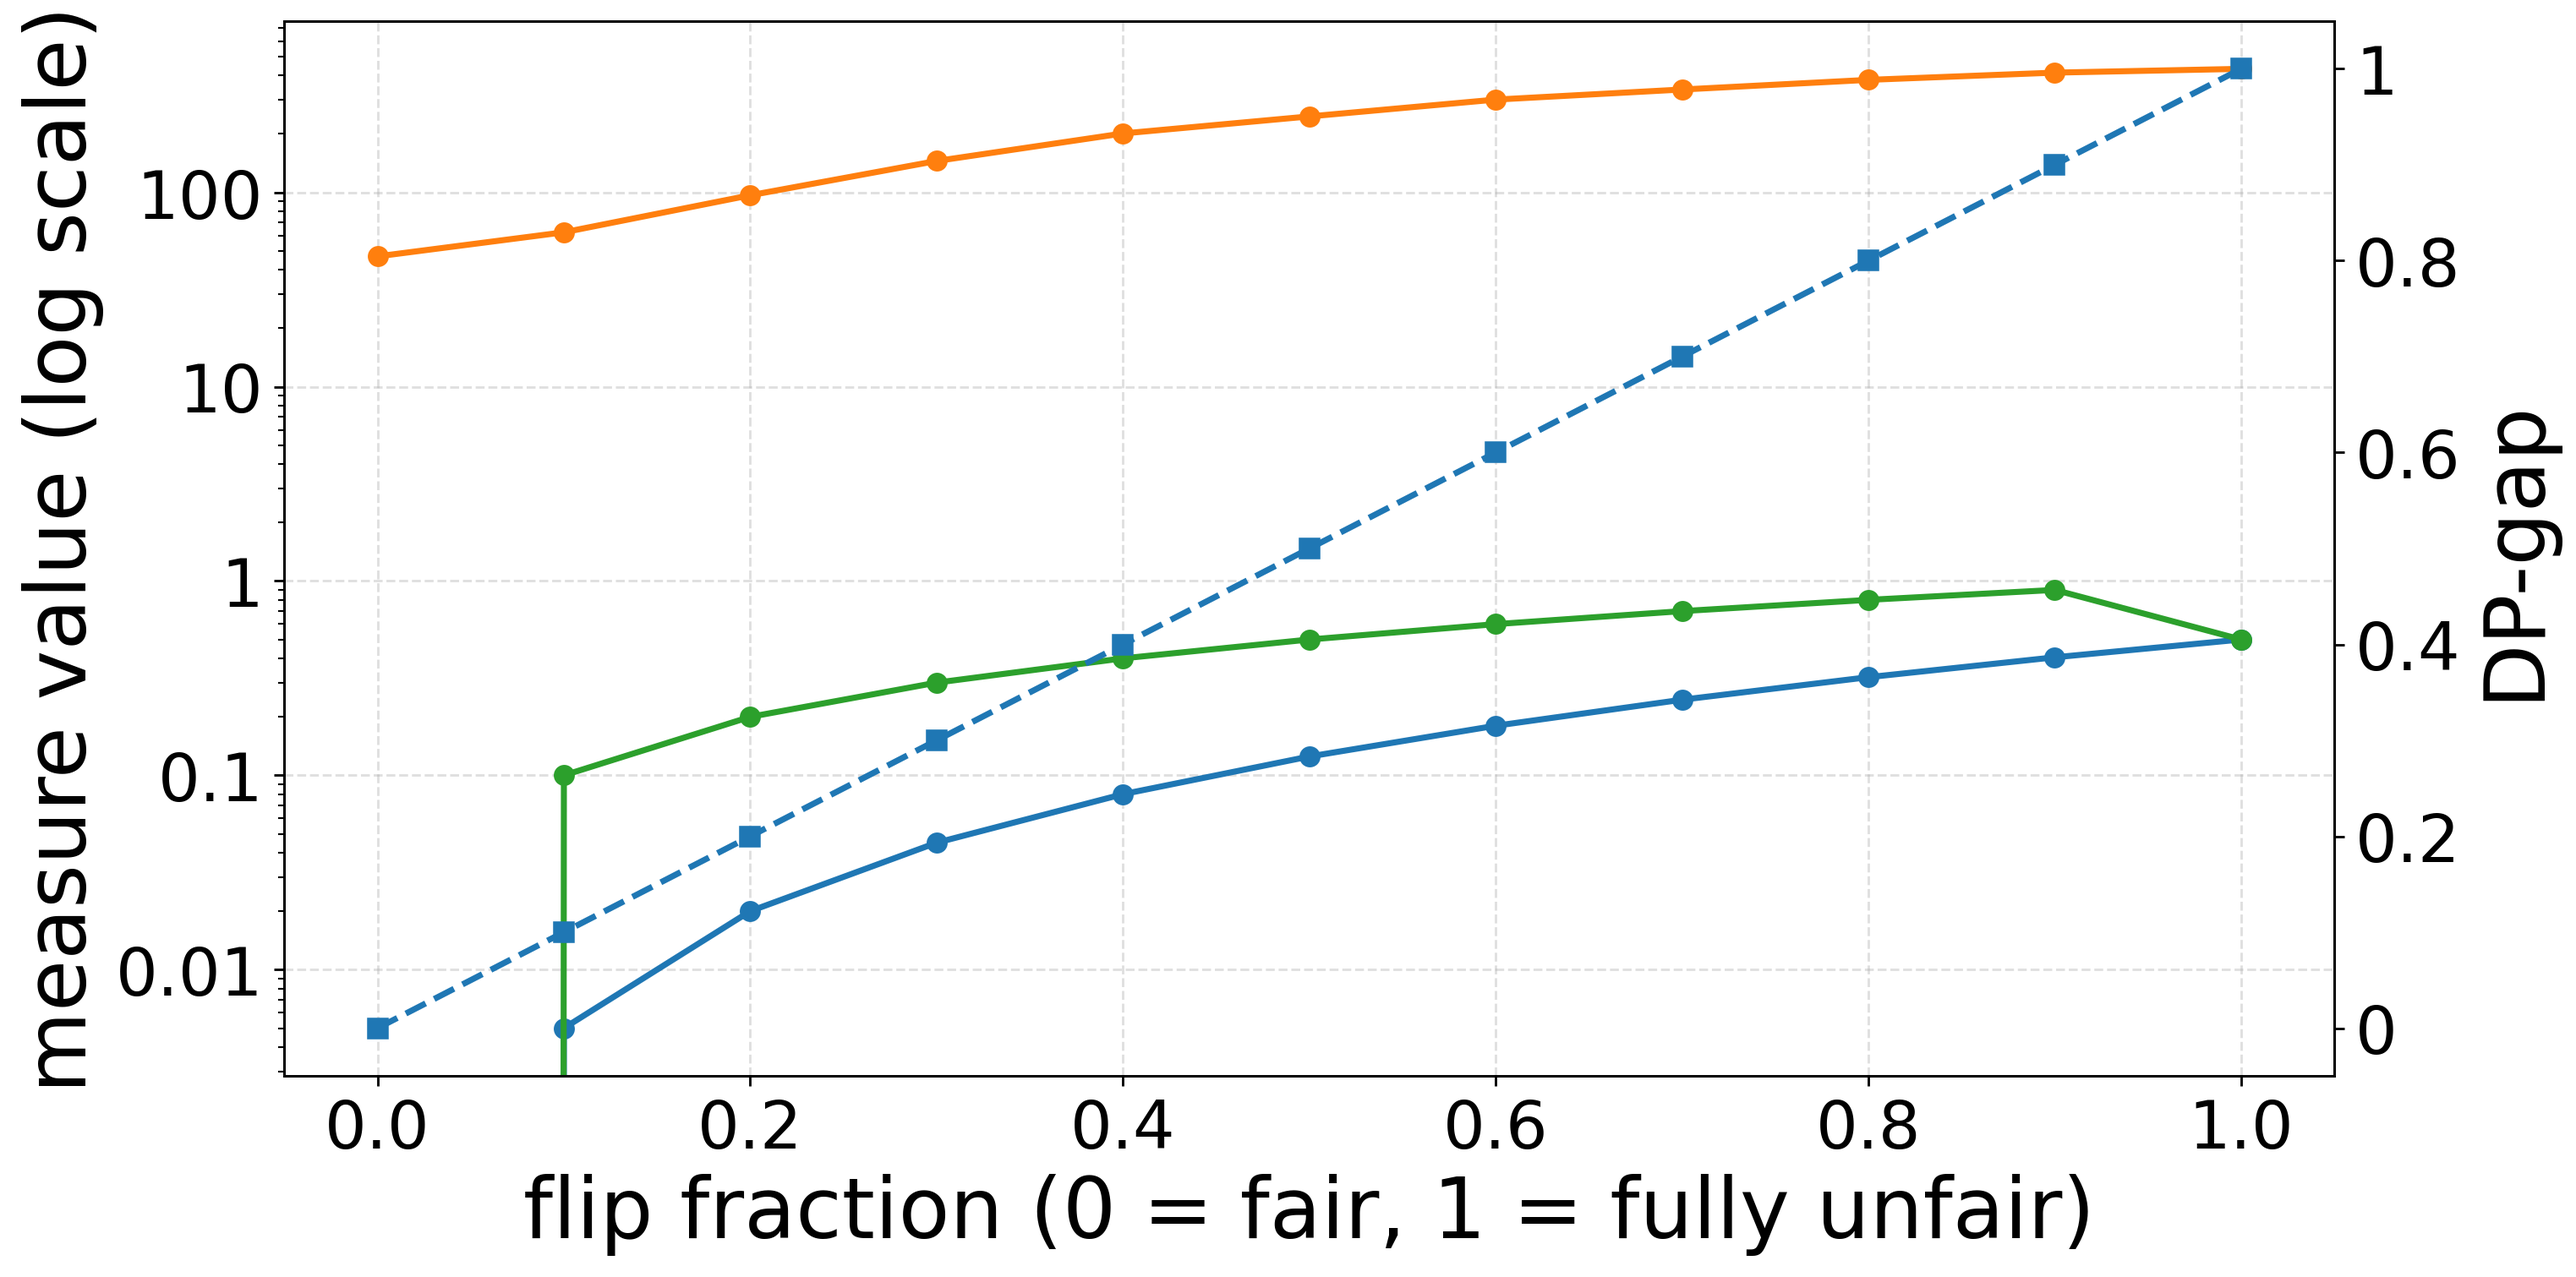
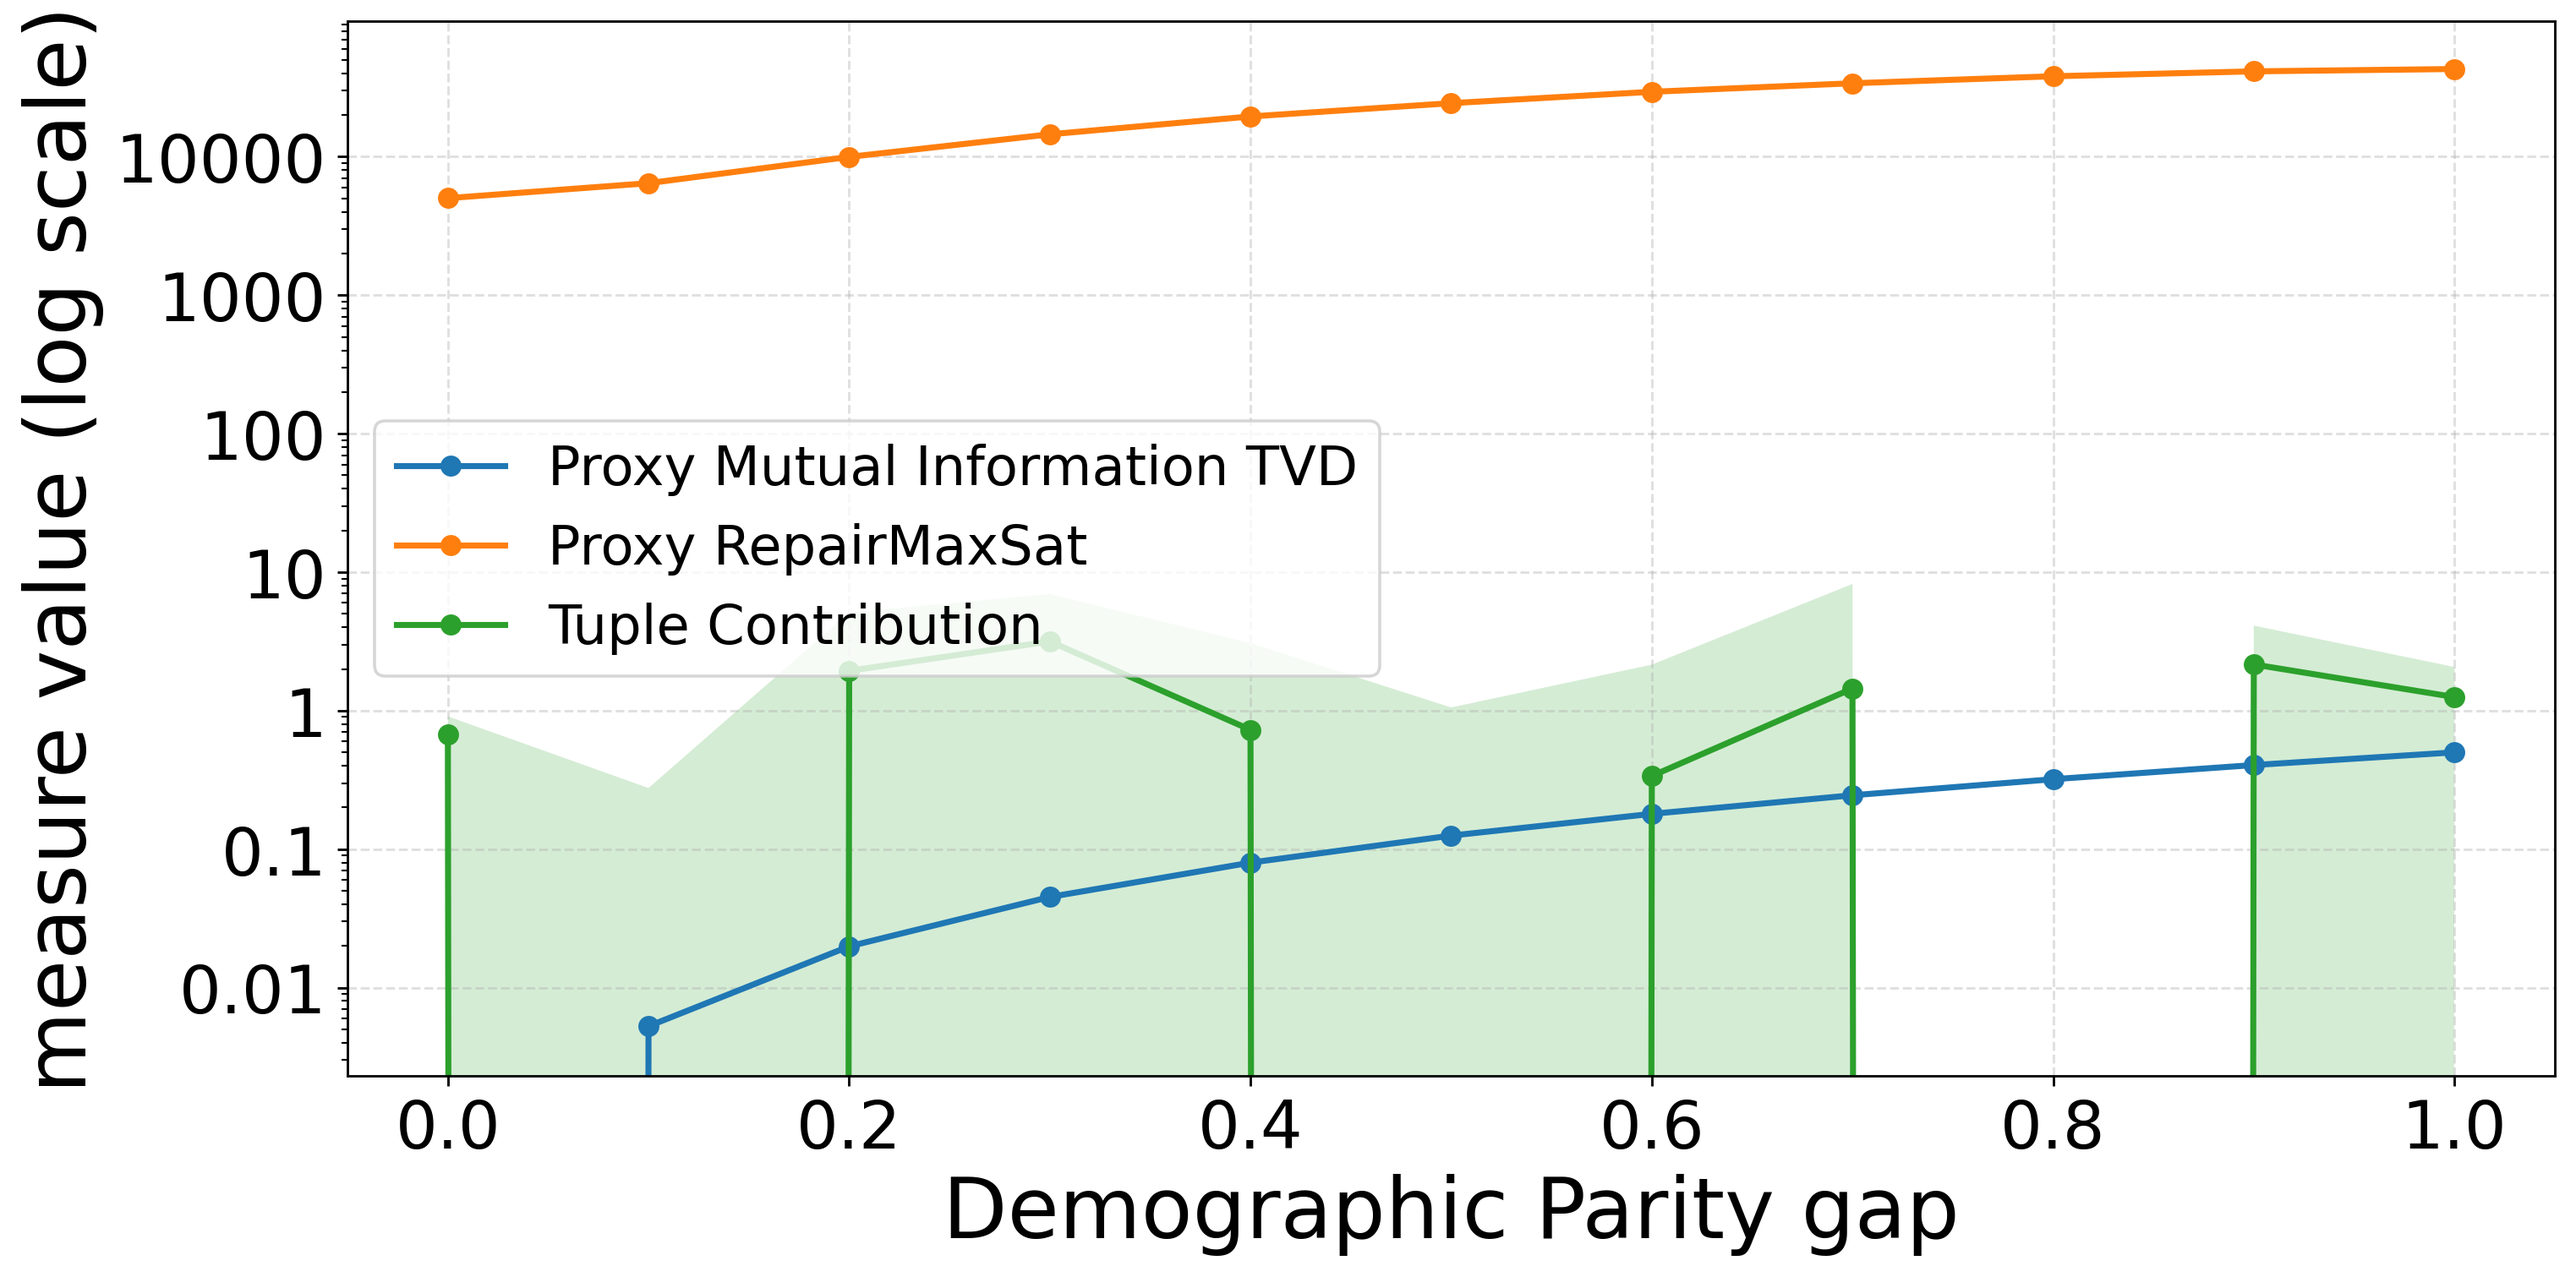
Added experiment 8

diff --git a/main.py b/main.py
@@ -1722,8 +1722,8 @@ def run_experiment_7(
 
 
 def run_experiment_8(
-    epsilon: Optional[float] = None,
-    n_per_sex: int = 500,                 # 500 males, 500 females
+    epsilon: Optional[float] = 1.0,
+    n_per_sex: int = 50000,
     step: float = 0.1,                    # switch 10% each iteration
     repetitions: int = 10,
     outfile: str = "plots/experiment8.png",
@@ -1738,31 +1738,20 @@ def run_experiment_8(
     So at t=1.0: all males income=1, all females income=0.
 
     Uses your global `measures` dict (ProxyMutualInformationTVD, ProxyRepairMaxSat, TupleContribution).
+    Adds shadow bands (min..max over repetitions) for every plotted line.
     """
 
     # ---- helpers -------------------------------------------------
     def _make_dataset(t: float) -> pd.DataFrame:
-        """
-        Create synthetic dataset for a given unfairness level t in [0,1].
-        sex: 1=male, 0=female (arbitrary, but consistent)
-        income: 1=income>50K, 0=otherwise
-        """
         n = n_per_sex
-
-        # Base fair allocation:
-        # males: n/2 income=0, n/2 income=1
-        # females: n/2 income=0, n/2 income=1
         m0 = n // 2
         m1 = n - m0
         f0 = n // 2
         f1 = n - f0
 
-        # How many to flip at level t
-        # flip t fraction of male income=0 -> 1, and t fraction of female income=1 -> 0
         flip_m = int(round(t * m0))
         flip_f = int(round(t * f1))
 
-        # After flipping:
         m0_new = m0 - flip_m
         m1_new = m1 + flip_m
         f1_new = f1 - flip_f
@@ -1778,27 +1767,23 @@ def run_experiment_8(
         ])
 
         df = pd.DataFrame({"sex": sex, "income>50K": income})
-
-        # Shuffle rows (important for any measure that might be order-sensitive)
         df = df.sample(frac=1.0, replace=False).reset_index(drop=True)
         return df
 
     def _dp_gap(df: pd.DataFrame) -> float:
-        """Demographic parity gap on the raw labels (no model): |P(y=1|male)-P(y=1|female)|."""
         rates = df.groupby("sex")["income>50K"].mean()
         return float(abs(rates.max() - rates.min())) if len(rates) else 0.0
 
     # ---- build unfairness grid ----------------------------------
-    # If you want exactly: start + 10 flips until fully polarized, use t in {0.0,0.1,...,1.0}
     ts = [round(i * step, 10) for i in range(int(1 / step) + 1)]
-    # Optionally truncate/override with num_steps if you want a different count:
-    # ts = [round(i * step, 10) for i in range(num_steps + 1)]
-
     criterion = ["sex", "income>50K"]
 
-    # Store results: measure_name -> list over t
-    results = {name: [] for name in measures.keys()}
-    dp_gaps = []
+    # Store per-t aggregates: mean/min/max for each measure and for dp-gap
+    results = {
+        name: {"mean": [], "min": [], "max": []}
+        for name in measures.keys()
+    }
+    dp_stats = {"mean": [], "min": [], "max": []}
 
     # ---- run -----------------------------------------------------
     for t in ts:
@@ -1808,7 +1793,6 @@ def run_experiment_8(
         for _ in range(repetitions):
             df = _make_dataset(t)
 
-            # All your measures take `data=...` and `calculate([criterion], epsilon=...)`
             for measure_name, measure_cls in measures.items():
                 m = measure_cls(data=df[criterion].copy())
                 with ThreadPoolExecutor() as executor:
@@ -1824,17 +1808,34 @@ def run_experiment_8(
 
             dp_rep.append(_dp_gap(df))
 
-        # Aggregate
+        # Aggregate per measure: mean/min/max (ignoring NaNs)
         for measure_name in measures.keys():
             arr = np.asarray(vals_rep[measure_name], dtype=float)
             arr = arr[~np.isnan(arr)]
-            results[measure_name].append(float(arr.mean()) if arr.size else np.nan)
+            if arr.size == 0:
+                results[measure_name]["mean"].append(np.nan)
+                results[measure_name]["min"].append(np.nan)
+                results[measure_name]["max"].append(np.nan)
+            else:
+                results[measure_name]["mean"].append(float(arr.mean()))
+                results[measure_name]["min"].append(float(arr.min()))
+                results[measure_name]["max"].append(float(arr.max()))
 
         dp_arr = np.asarray(dp_rep, dtype=float)
-        dp_gaps.append(float(dp_arr.mean()) if dp_arr.size else np.nan)
+        dp_arr = dp_arr[~np.isnan(dp_arr)]
+        if dp_arr.size == 0:
+            dp_stats["mean"].append(np.nan)
+            dp_stats["min"].append(np.nan)
+            dp_stats["max"].append(np.nan)
+        else:
+            dp_stats["mean"].append(float(dp_arr.mean()))
+            dp_stats["min"].append(float(dp_arr.min()))
+            dp_stats["max"].append(float(dp_arr.max()))
 
-        print(f"t={t:.1f}  DP-gap≈{dp_gaps[-1]:.3f}  " +
-              "  ".join([f"{mn}≈{results[mn][-1]:.4f}" for mn in measures.keys()]))
+        print(
+            f"t={t:.1f}  DP-gap≈{dp_stats['mean'][-1]:.3f}  " +
+            "  ".join([f"{mn}≈{results[mn]['mean'][-1]:.4f}" for mn in measures.keys()])
+        )
 
     # ---- plot ----------------------------------------------------
     plt.rcParams.update({
@@ -1848,28 +1849,33 @@ def run_experiment_8(
 
     fig, ax = plt.subplots(figsize=(12, 6))
 
-    x = np.asarray(ts, dtype=float)
+    # Use DP-gap mean on x-axis (as you want)
+    x = np.asarray(dp_stats["mean"], dtype=float)
+
     for measure_name in measures.keys():
-        y = np.asarray(results[measure_name], dtype=float)
-        ax.plot(x, y, marker="o", linewidth=2, label=measure_name)
+        y_mean = np.asarray(results[measure_name]["mean"], dtype=float)
+        y_min  = np.asarray(results[measure_name]["min"], dtype=float)
+        y_max  = np.asarray(results[measure_name]["max"], dtype=float)
 
-    # Optional: also show DP-gap (ground-truth unfairness) on a second axis
-    ax2 = ax.twinx()
-    ax2.plot(x, np.asarray(dp_gaps, dtype=float), marker="s", linewidth=2, linestyle="--", label="DP-gap")
-    ax2.set_ylabel("DP-gap")
-    ax2.yaxis.set_major_formatter(y_formatter)
+        line, = ax.plot(x, y_mean, marker="o", linewidth=2, label=measure_name)
 
-    # ax.set_title("Measure Values vs Growing Unfairness (Synthetic sex × income)")
-    ax.set_xlabel("flip fraction (0 = fair, 1 = fully unfair)")
+        # Shadow band: min..max (skip NaNs safely)
+        mask = ~np.isnan(x) & ~np.isnan(y_min) & ~np.isnan(y_max)
+        if mask.any():
+            ax.fill_between(
+                x[mask],
+                y_min[mask],
+                y_max[mask],
+                alpha=0.2,
+                color=line.get_color(),
+                linewidth=0,
+            )
+
+    ax.set_xlabel("Demographic Parity gap")
     ax.set_yscale('log')
     ax.set_ylabel("measure value (log scale)")
     ax.grid(True, linestyle="--", alpha=0.4)
     ax.yaxis.set_major_formatter(y_formatter)
-
-    # Merge legends from both axes
-    h1, l1 = ax.get_legend_handles_labels()
-    h2, l2 = ax2.get_legend_handles_labels()
-    # ax.legend(h1 + h2, l1 + l2, loc="lower right", frameon=True)
 
     os.makedirs(os.path.dirname(outfile), exist_ok=True)
     plt.tight_layout()
